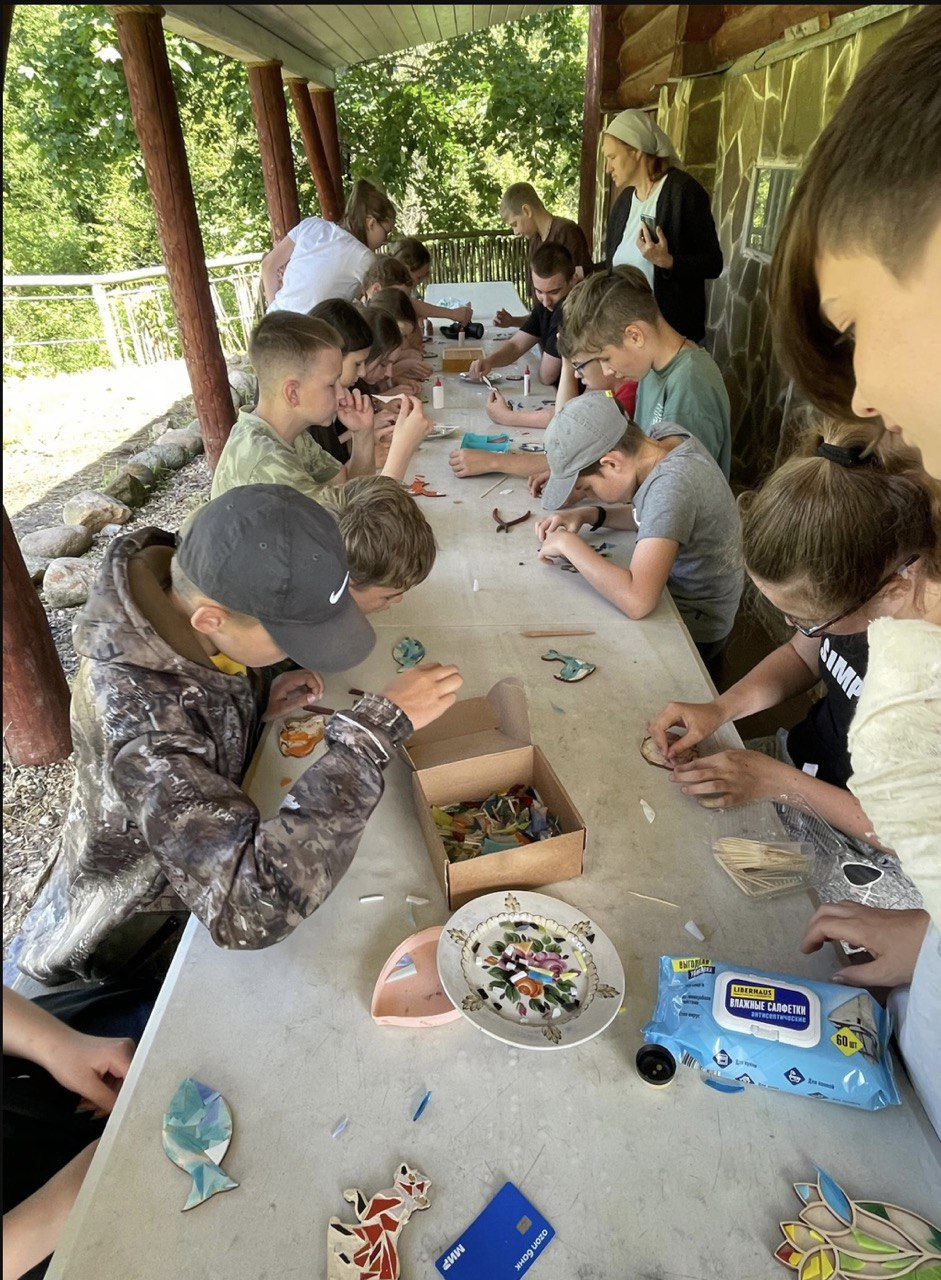
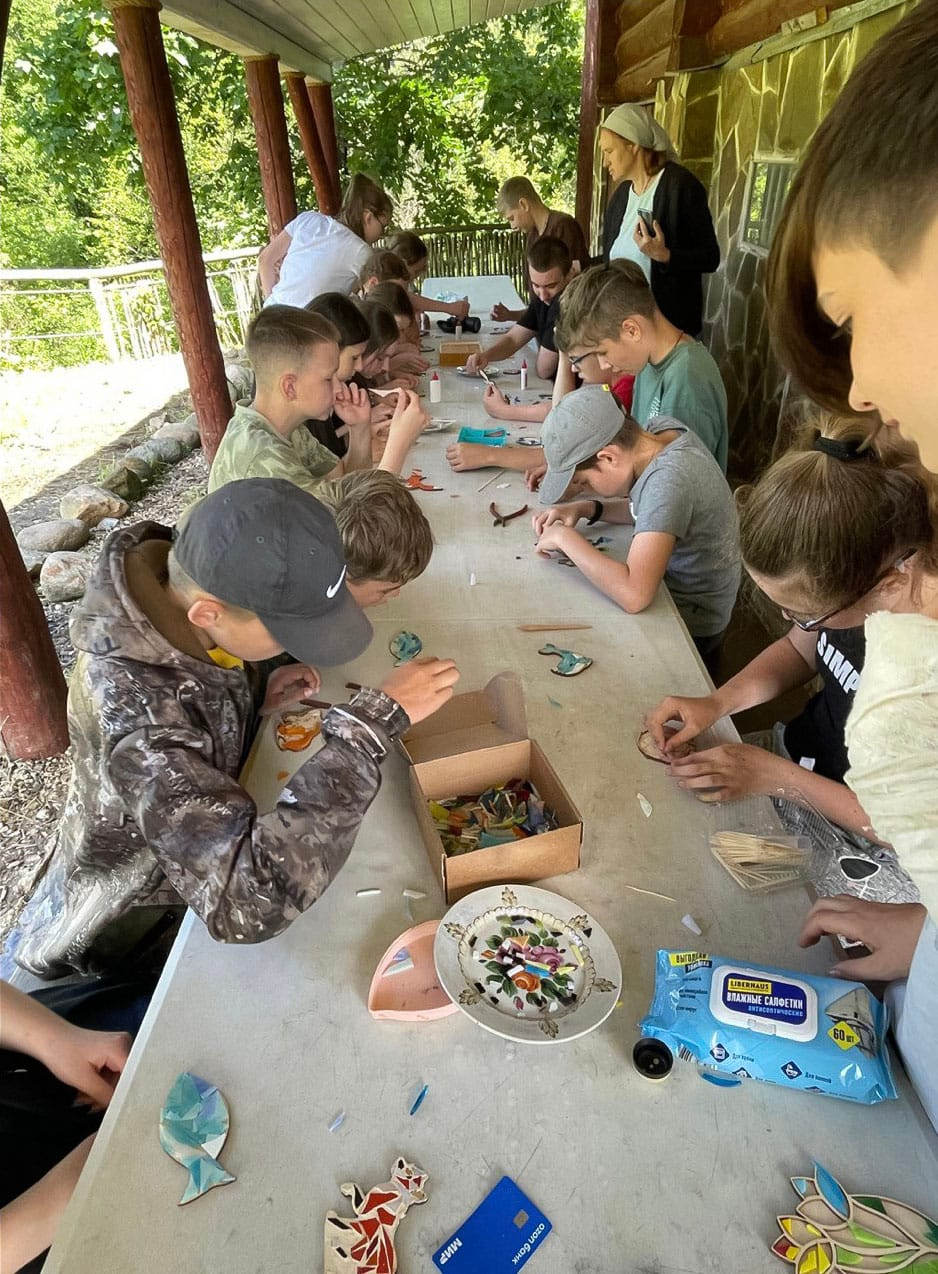
chore(images): re-compress edited photos and refresh their webp
Five photos were re-cropped; the editor re-saved the jpgs much larger and
their webp pairs went stale (still the un-cropped pixels). Re-compress the
jpgs (mozjpeg q80 — now smaller than the originals) and regenerate the webp
from the cropped sources.

gen-webp.js no longer blindly skips every existing pair: it regenerates a
webp when its jpg is newer (so editing a source and re-running picks it up),
always overwrites an existing pair in place (never removes one the markup may
reference), and only skips creating a brand-new webp when it wouldn't save
anything.

diff --git a/scripts/gen-webp.js b/scripts/gen-webp.js
@@ -1,5 +1,7 @@
-// Generates missing .webp pairs for every .jpg/.jpeg in public/images/.
-// Idempotent: skips images that already have a .webp neighbour.
+// Generates .webp pairs for every .jpg/.jpeg in public/images/.
+// (Re)generates when the .webp is missing OR older than its .jpg, so editing a
+// source image and re-running this picks up the change — it no longer blindly
+// skips every existing pair.
 //
 // Usage: node scripts/gen-webp.js
 
@@ -20,23 +22,32 @@ let skippedNoGain = 0;
 
 for (const jpg of jpgs) {
     const { name } = parse(jpg);
-    const out = join(IMAGES_DIR, `${name}.webp`);
-    if (existsSync(out)) { skippedExisting++; continue; }
-
     const jpgPath = join(IMAGES_DIR, jpg);
-    const buf = await sharp(jpgPath).webp({ quality: QUALITY }).toBuffer();
-    const jpgSize = (await stat(jpgPath)).size;
+    const out = join(IMAGES_DIR, `${name}.webp`);
+    const existed = existsSync(out);
 
-    // Skip if webp wouldn't save anything — source jpg is already efficient
-    // and a <source type="image/webp"> would actually hurt these visitors.
-    if (buf.length >= jpgSize) {
+    // Skip only if an up-to-date webp already exists (jpg untouched since).
+    if (existed) {
+        const [j, w] = await Promise.all([stat(jpgPath), stat(out)]);
+        if (w.mtimeMs >= j.mtimeMs) { skippedExisting++; continue; }
+    }
+
+    const jpgSize = (await stat(jpgPath)).size;
+    const buf = await sharp(jpgPath).webp({ quality: QUALITY }).toBuffer();
+
+    // Refuse only to *create* a brand-new webp that wouldn't save anything (no
+    // point adding a <source>). An existing pair is always refreshed in place —
+    // the markup may reference it (removing it would break <picture>), and the
+    // build re-encodes both at q75 anyway.
+    if (!existed && buf.length >= jpgSize) {
         console.log(`✗ ${name}.webp — bigger than jpg (${buf.length} vs ${jpgSize}), skipped`);
         skippedNoGain++;
         continue;
     }
 
     await writeFile(out, buf);
-    console.log(`✓ ${name}.webp  (-${Math.round((jpgSize - buf.length) * 100 / jpgSize)}%)`);
+    const pct = Math.round((jpgSize - buf.length) * 100 / jpgSize);
+    console.log(`${pct >= 0 ? '✓' : '•'} ${name}.webp  (${pct >= 0 ? '-' : '+'}${Math.abs(pct)}%${existed ? ', refreshed' : ''})`);
     generated++;
 }
 
